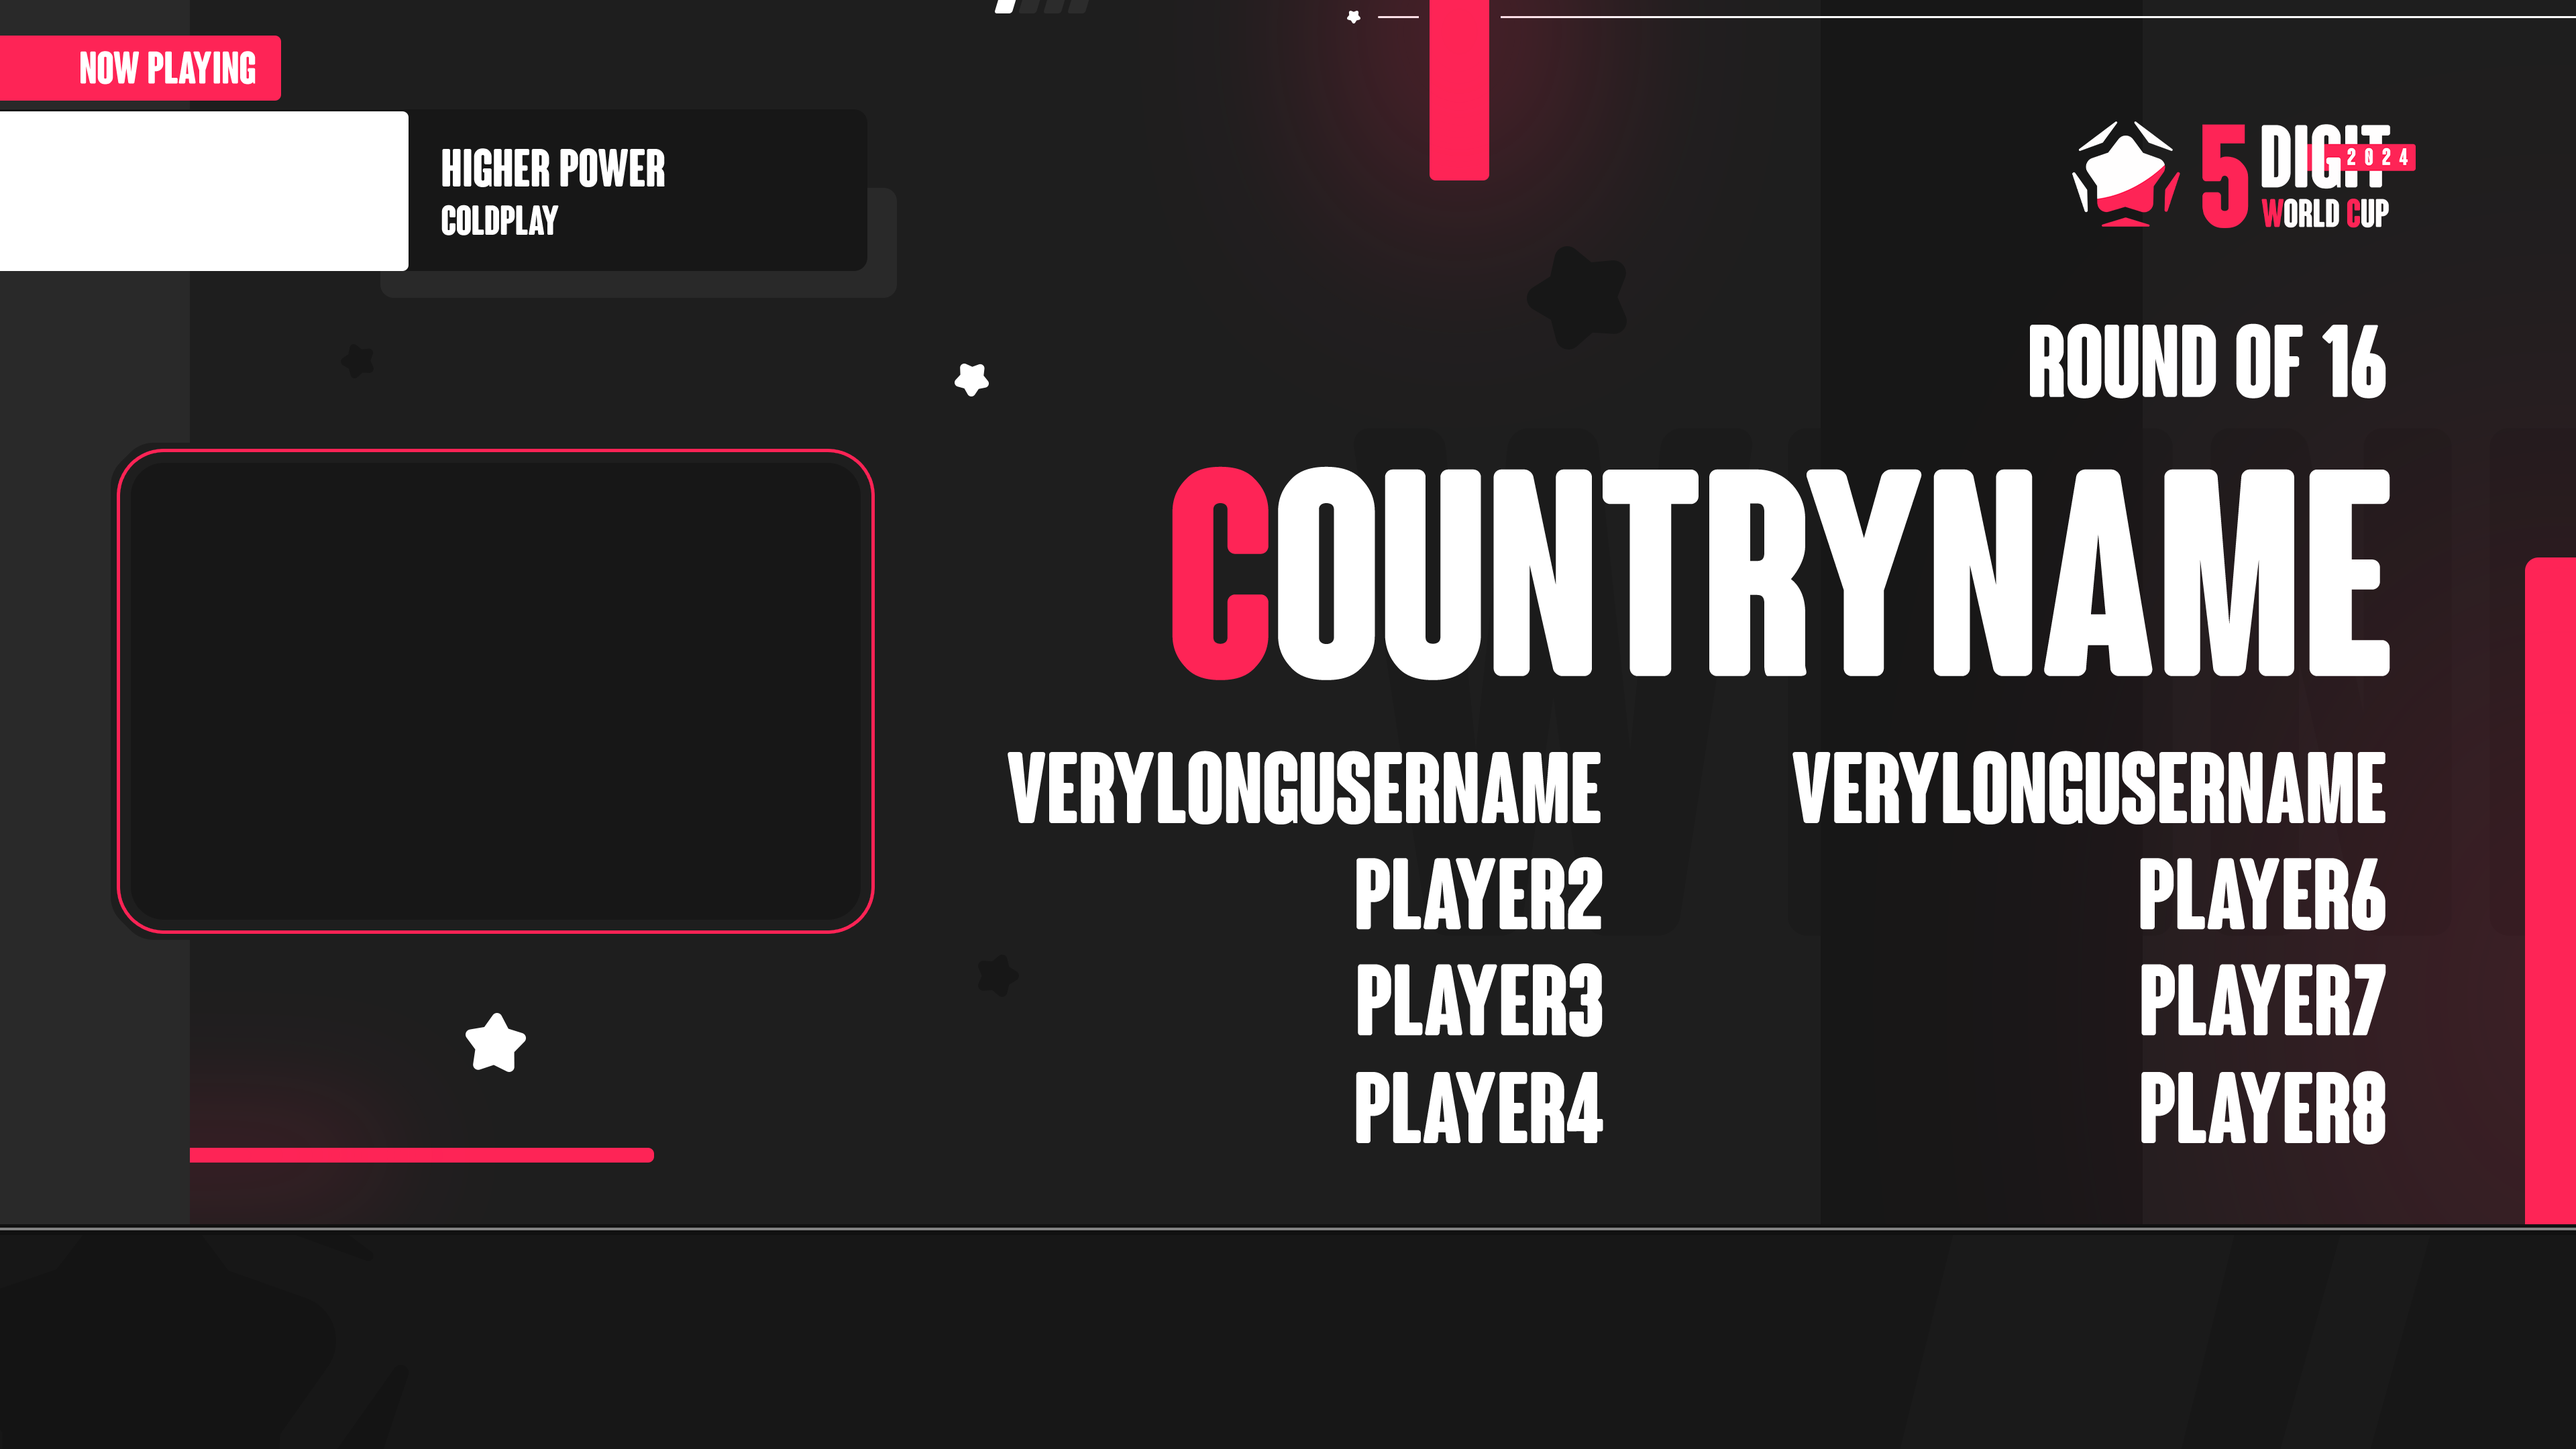
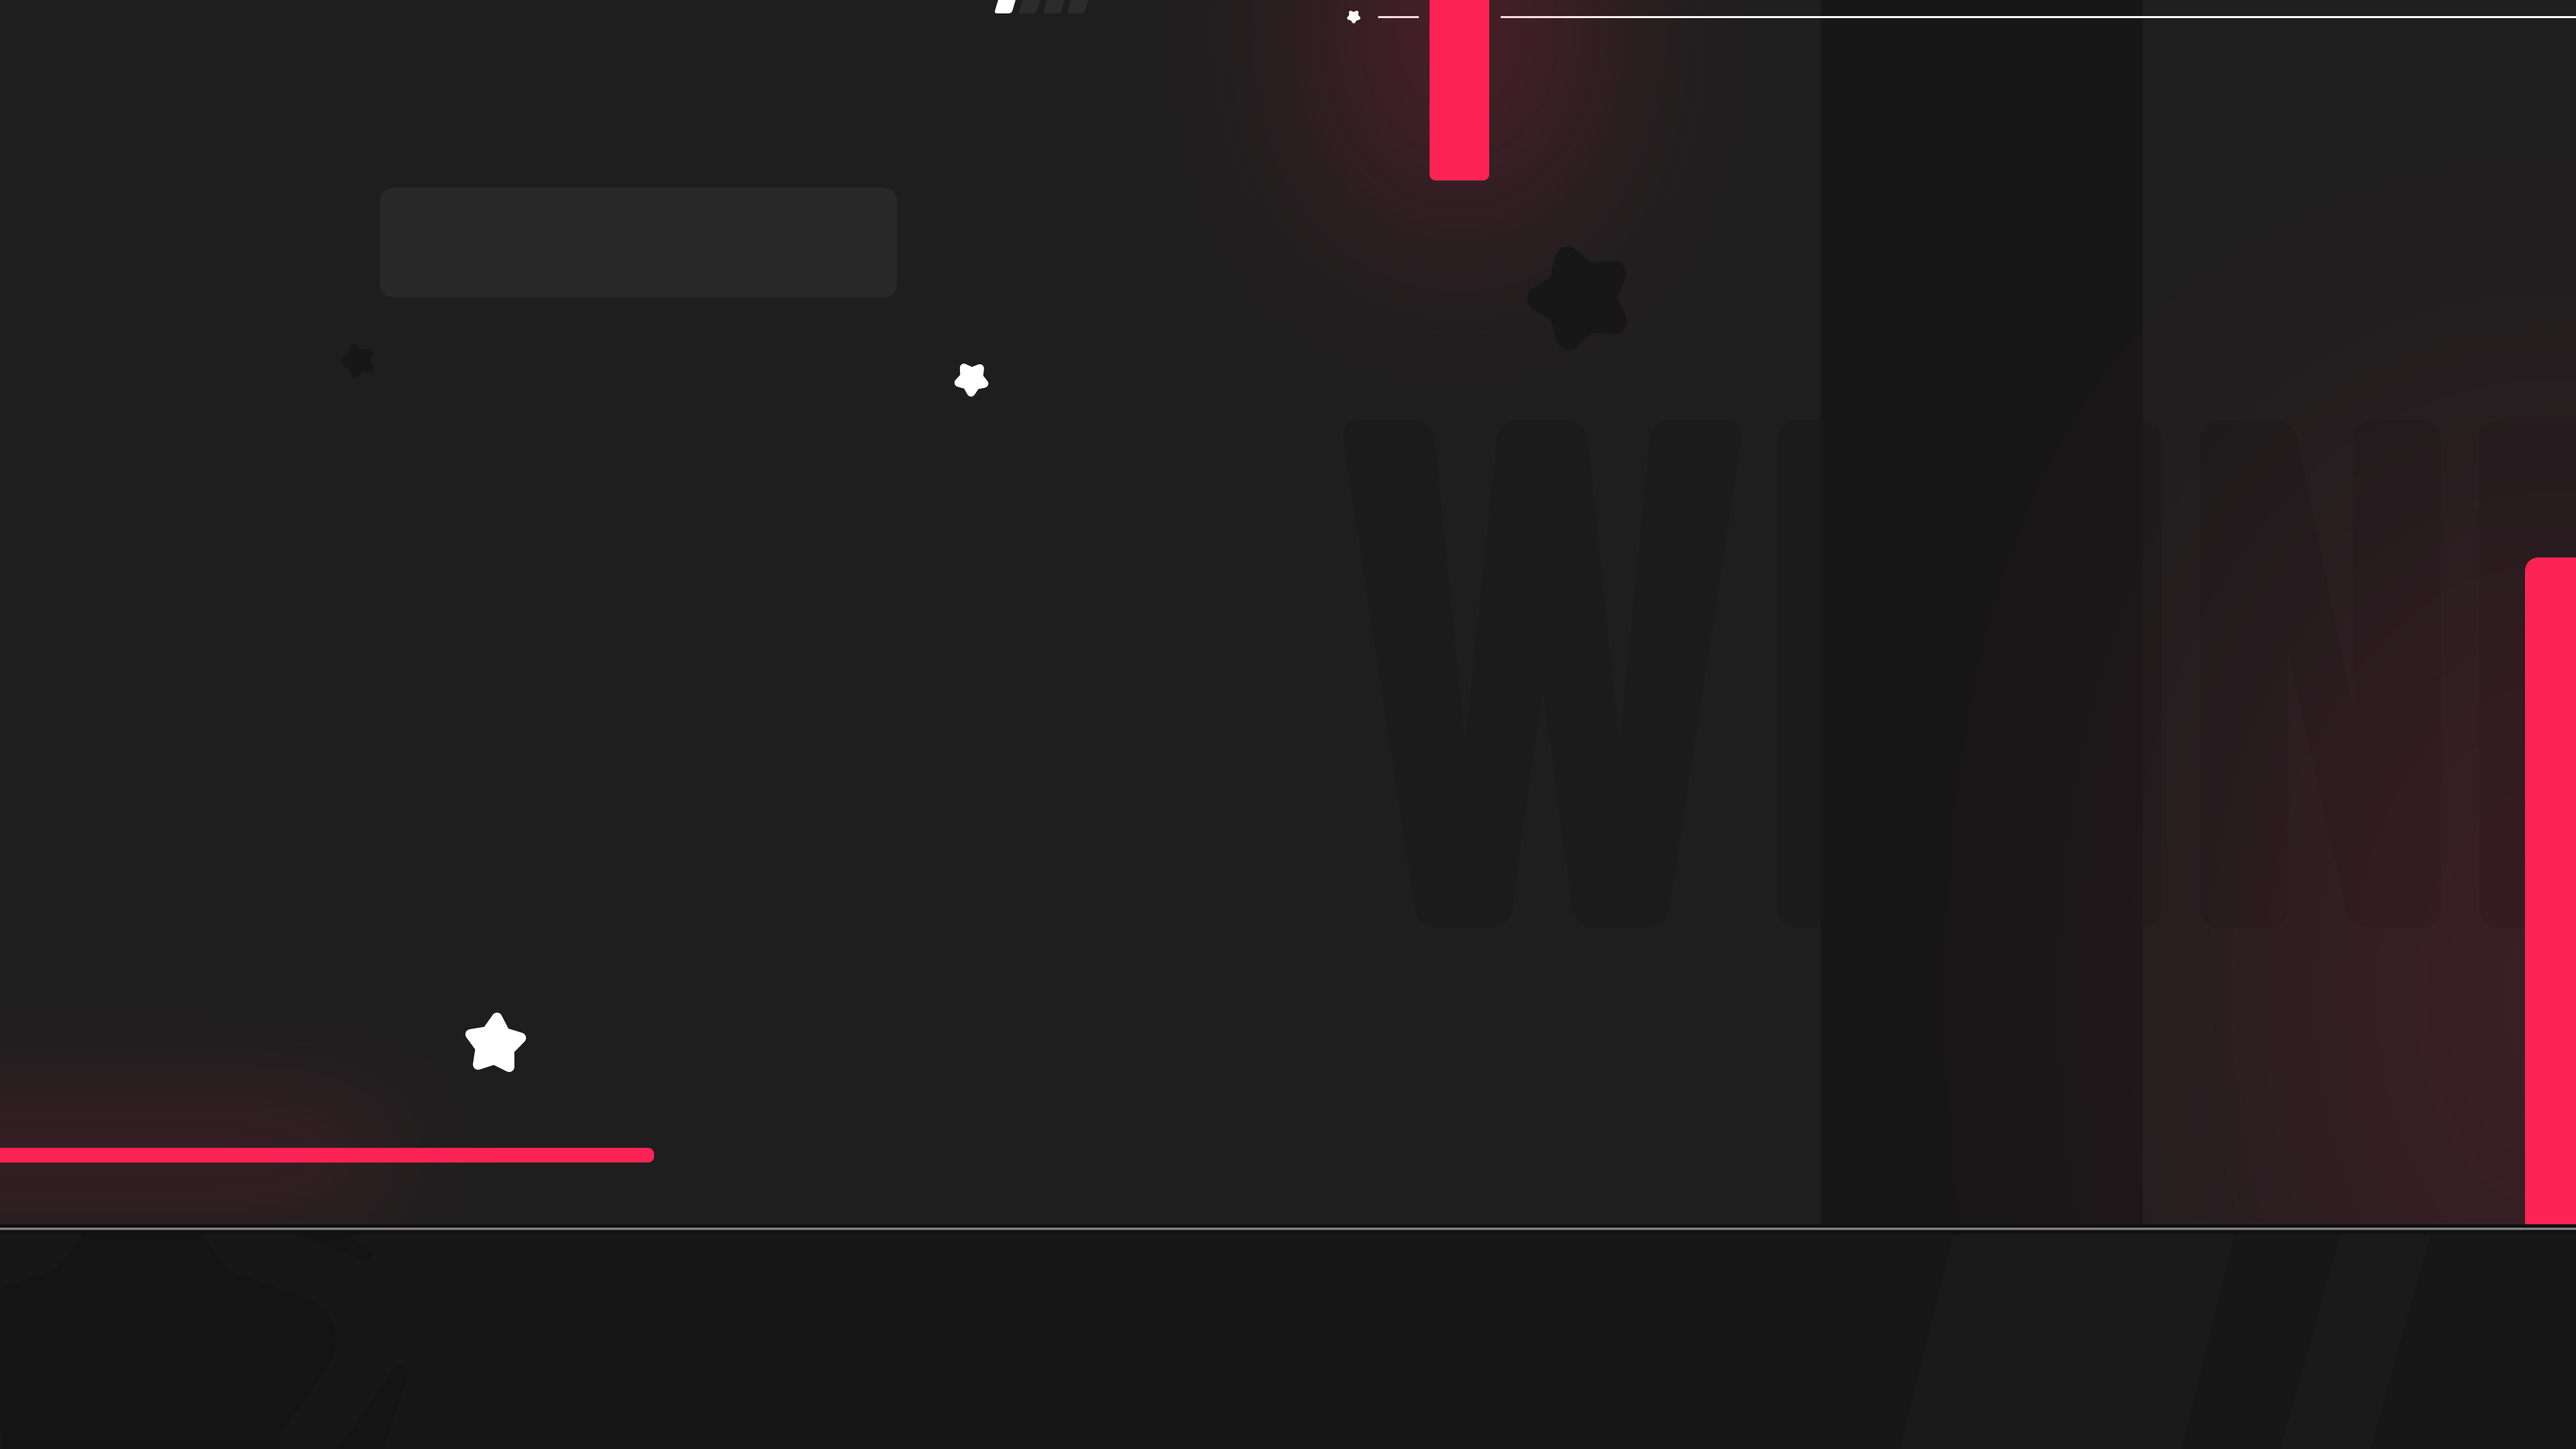
Complete everything except scrolling now playing information and getting player names
Already asked for a way to get the player information

diff --git a/winner/index.js b/winner/index.js
@@ -1,0 +1,84 @@
+// Socket Events
+// Credits: VictimCrasher - https://github.com/VictimCrasher/static/tree/master/WaveTournament
+const socket = new ReconnectingWebSocket("ws://" + location.host + "/ws")
+socket.onopen = () => { console.log("Successfully Connected") }
+socket.onclose = event => { console.log("Socket Closed Connection: ", event); socket.send("Client Closed!") }
+socket.onerror = error => { console.log("Socket Error: ", error) }
+
+// Load country data
+let allCountries
+let allCountriesXhr = new XMLHttpRequest()
+allCountriesXhr.open("GET", "http://127.0.0.1:24050/5WC2024/_data/countries.json", false)
+allCountriesXhr.onload = function () {
+    if (this.status == 404) return
+    if (this.status == 200) allCountries = JSON.parse(this.responseText)
+}
+allCountriesXhr.send()
+
+// Now playing
+const nowPlayingImage = document.getElementById("nowPlayingImage")
+const nowPlayingSongName = document.getElementById("nowPlayingSongName")
+const nowPlayingArtistName = document.getElementById("nowPlayingArtistName")
+let currentNowPlayingMd5
+let currentNowPlayingSongName
+
+socket.onmessage = event => {
+    const data = JSON.parse(event.data)
+    
+    if (currentNowPlayingSongName !== data.menu.bm.metadata.title || currentNowPlayingMd5 !== data.menu.bm.md5) {
+        currentNowPlayingSongName = data.menu.bm.metadata.title
+        currentNowPlayingMd5 = data.menu.bm.md5
+
+        // set now playing image
+        const currentImage = data.menu.bm.path.full.replace(/#/g,'%23').replace(/%/g,'%25').replace(/\\/g,'/').replace(/'/g, "\\'")
+        nowPlayingImage.style.backgroundImage = `url('http://${location.host}/Songs/${currentImage}?a=${Math.random(10000)}')`
+
+        // Set song name
+        nowPlayingSongName.innerText = currentNowPlayingSongName
+
+        // Set artist name
+        nowPlayingArtistName.innerText = data.menu.bm.metadata.artist
+    }
+}
+
+// Get Cookie
+function getCookie(cname) {
+    let name = cname + "="
+    let ca = document.cookie.split(';')
+    for(let i = 0; i < ca.length; i++) {
+        let c = ca[i]
+        while (c.charAt(0) == ' ') c = c.substring(1)
+        if (c.indexOf(name) == 0) return c.substring(name.length, c.length)
+    }
+    return ""
+}
+
+// Set winner information
+const countryFlagImage = document.getElementById("countryFlagImage")
+const countryNameFirstLetter = document.getElementById("countryNameFirstLetter")
+const countryNameRest = document.getElementById("countryNameRest")
+let currentCountryCode
+
+// Round information
+const roundName = document.getElementById("roundName")
+setInterval(() => {
+
+    // Set new country
+    let newCountryCode = getCookie("currentWinner")
+    if (newCountryCode !== "none" && currentCountryCode !== newCountryCode) {
+        currentCountryCode = newCountryCode
+        countryFlagImage.style.backgroundImage = `url("https://osuflags.omkserver.nl/${newCountryCode}-1000.png")`
+
+        for (let i = 0; i < allCountries.length; i++) {
+            if (allCountries[i].code == currentCountryCode) {
+                countryNameFirstLetter.innerText = allCountries[i].name[0]
+                countryNameRest.innerText = allCountries[i].name.substring(1)
+                break
+            }
+        }
+    }
+
+    // set current round
+    let newRound = getCookie("currentRound")
+    if (roundName.innerText !== newRound) roundName.innerText = newRound
+}, 500)

diff --git a/winner/index.html b/winner/index.html
@@ -20,7 +20,7 @@
     <div id="main">
         <section id="cosmetics">
             <div id="leftGrayRectangle">
-                
+
             </div>
         </section>
         <section id="nowPlaying">
@@ -40,7 +40,7 @@
         </section>
         <img id="logo" src="../shared/static/logo.png">
         <div id="roundName">ROUND OF 16</div>
-        <div id="countryName"><span id="countryNameFirstLetter" style="color: var(--mainRed)">R</span>USSIAN FEDERATION</div>
+        <div id="countryName"><span id="countryNameFirstLetter" style="color: var(--mainRed)">R</span><span id="countryNameRest">USSIAN FEDERATION</span></div>
         <section id="playerNames">
             <div id="playerName1">VERYLONGUSERNAME</div>
             <div id="playerName2">VERYLONGUSERNAME</div>

diff --git a/winner/style.css b/winner/style.css
@@ -8,7 +8,7 @@
 /* ----- COSMETICS ----- */
 #leftGrayRectangle {
     position: absolute; top: 0; left: 0;
-    width: 283px; height: 100%;
+    width: 283px; height: 1824px;
     background-color: rgb(41, 41, 41);
 }
 /* ----- NOW PLAYING ----- */
@@ -29,7 +29,7 @@
     width: 1292px; height: 241px;
     background-size: cover;
     background-position: center;
-    /* background-color: var(--mainDarkBackground); */
+    background-color: var(--mainDarkBackground);
     border-radius: 0 20px 20px 0;
 }
 /* Now Playing Image */
@@ -57,9 +57,6 @@
 }
 
 /* Country Flag */
-/* 8px between edge and red*/
-/* red is 6px large */
-/* 30px between edge and other edge */
 #countryFlag {
     position: absolute; top: 661px; left: 165px;
     background-color: rgb(30, 30, 30);

diff --git a/main/index.js b/main/index.js
@@ -228,6 +228,15 @@ socket.onmessage = async (event) => {
         }
         createStarImages(redTeamStarsEl, currentRedStars, currentFirstTo, "red_star.png", "white_star.png")
         createStarImages(blueTeamStarsEl, currentFirstTo - currentBlueStars, currentFirstTo, "white_star.png", "blue_star.png")
+
+        // Set winner information
+        if (currentRedStars == currentFirstTo) {
+            document.cookie = `currentWinner=${currentRedTeamCode}; path=/`
+        } else if (currentBlueStars == currentFirstTo) {
+            document.cookie = `currentWinner=${currentBlueTeamCode}; path=/`
+        } else {
+            document.cookie = `currentWinner=none; path=/`
+        }
     }
 
     // Score visibility
